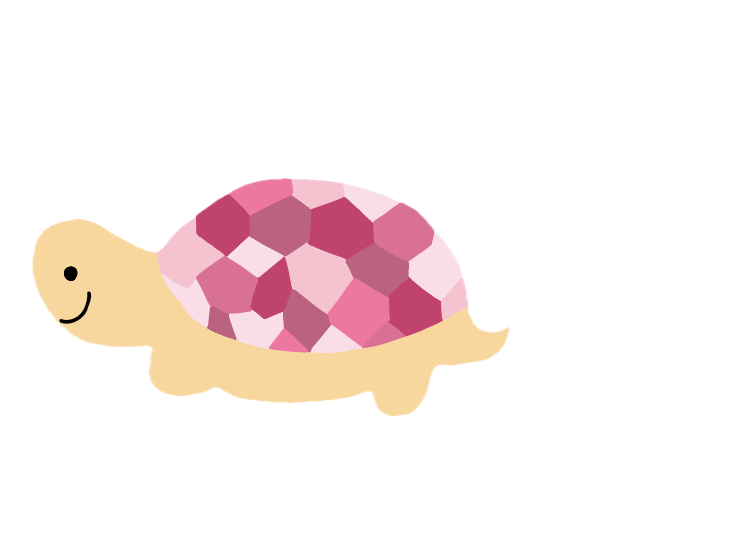
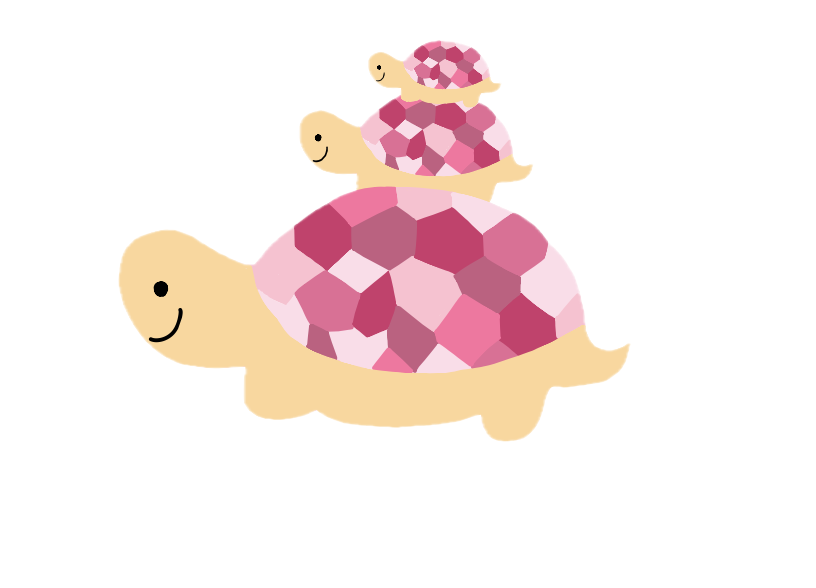
mini hipos con nombre

Changed region(s): [[0.0305, 0.062, 0.7931, 0.7755]]

diff --git a/hipo.py b/hipo.py
@@ -1,7 +1,8 @@
 import pygame
 import sys
 import random
-from Classes import Hipo, Tortuga, Bat
+from Classes import Hipo, Tortuga, Bat, Huevo
+from Game_over import draw_game_over, choose_mini_hippos
 
 pygame.init()
 
@@ -14,17 +15,22 @@ game_font = pygame.font.Font("Assets/PressStart2P-Regular.ttf", 24)
 game_speed = 3
 player_score = 0
 game_over = False
-obstacle_cooldown = 5000
 ground = pygame.image.load("Assets/Pasto.png").convert_alpha()
 ground = pygame.transform.scale(ground, (1700, 90))
 ground_x = 0
+eggs_collected = 0
+
+egg_icon = pygame.image.load("Assets/Huevo_1a.png").convert_alpha()
+egg_icon = pygame.transform.scale(egg_icon, (130, 90))
 
 # Personaje y grupos de obstáculos
 hipo = Hipo(110, 365)
 tortugas = pygame.sprite.Group()
 bats = pygame.sprite.Group()
+huevos = pygame.sprite.Group()
 last_spawn_time = pygame.time.get_ticks()
 spawn_cooldown = 1800
+next_egg_spawn = pygame.time.get_ticks() + random.randint(5000, 9000)
 
 #Chequear colisiones
 def check_collisions():
@@ -38,6 +44,16 @@ def check_collisions():
         if hipo_hitbox.colliderect(bat_hitbox):
             return True
     return False
+
+# Cargar mini Hippos
+mini_hippos = []
+for i in range(1, 25):
+    image = pygame.image.load(f"Assets/minis/mini_{i}.png").convert_alpha()
+    image = pygame.transform.scale(image, (80, 60))
+    mini_hippos.append(image)
+mini_names = ["Sylvia", "Mora", "Bigotes", "Cunky", "Platón", "Gambito", "Roberto", "Oscar", "Chicho", "Focaccia", "Carlos", "Soya", 
+              "Ángel", "Abed", "Hummus", "Pelusa", "Espresso", "Flan", "Coco", "Fuji", "Alvi", "Penco", "Samurai", "Arya"]
+selected_minis = []
 
 while True:
     for event in pygame.event.get():
@@ -56,18 +72,26 @@ while True:
             if event.key == pygame.K_DOWN:
                 hipo.set_ducking(False)
 
+    if game_over:
+        draw_game_over(screen, game_font, player_score, selected_minis)
+        pygame.display.flip()
+        clock.tick(60)
+        continue
+
     current_time = pygame.time.get_ticks()
 
     if current_time - last_spawn_time >= spawn_cooldown:
-
         # Elegir aleatoriamente el tipo de obstáculo
-        if random.choice(["tortuga", "bat"]) == "tortuga":
+        if random.choice(["tortuga", "tortuga", "bat"]) == "tortuga":
             tortugas.add(Tortuga(1330, 397))
         else:
             bats.add(Bat())
 
         last_spawn_time = current_time
-        spawn_cooldown = random.randint(1800, 2800)
+
+    if current_time >= next_egg_spawn:
+        huevos.add(Huevo(1330, 397))
+        next_egg_spawn = current_time + random.randint(6000, 9000)
 
     # Mover el pasto
     ground_x -= game_speed
@@ -78,52 +102,38 @@ while True:
     screen.blit(ground, (ground_x, 390))
     screen.blit(ground, (ground_x + 1700, 390))
 
+
     # Actualizar y dibujar obstáculos
-    tortugas.update()
-    bats.update()
+    tortugas.update(game_speed)
+    bats.update(game_speed)
+    huevos.update(game_speed)
+
+    collected_eggs = pygame.sprite.spritecollide(hipo, huevos, dokill=True)
+    for huevo in collected_eggs:
+        eggs_collected += 1
 
     tortugas.draw(screen)
     bats.draw(screen)
+    huevos.draw(screen)
 
     # Actualizar y dibujar a Hipo
     hipo.update()
     hipo.draw(screen)
 
-    ##### TEMPORAL: DIBUJAR RECTÁNGULOS DE COLISIÓN #####
-    # Rectángulo de Hipo en rojo
-    hipo_hitbox = hipo.rect.inflate(-70, -100)
-    pygame.draw.rect(screen, (255, 0, 0), hipo_hitbox, 2)
-    for tortuga in tortugas:
-        tortuga_hitbox = tortuga.rect.inflate(-50, -20)
-        pygame.draw.rect(screen, (0, 0, 255), tortuga_hitbox, 2)
-    # Rectángulos de los murciélagos en verde
-    for bat in bats:
-        bat_hitbox = bat.rect.inflate(-30, -20)
-        pygame.draw.rect(screen, (0, 255, 0), bat_hitbox, 2)
-    ####################################################
-
     if check_collisions():
         game_over = True
-        
-    if game_over:
-        text = game_font.render("GAME OVER", True, (0, 0, 0))
-        text_rect = text.get_rect(center=(640, 300))
-
-        screen.fill((208, 245, 244))
-        screen.blit(text, text_rect)
-        final_score_text = game_font.render(f"Final Score: {int(player_score)}", True, (0, 0, 0))
-        final_score_rect = final_score_text.get_rect(center=(640, 350))
-        screen.blit(final_score_text, final_score_rect)
-
-        pygame.display.flip()
-        clock.tick(60)
-        continue
+        selected_minis = choose_mini_hippos(mini_hippos, mini_names, eggs_collected)
+        draw_game_over(screen, game_font, player_score, selected_minis)
 
     else:
-        player_score += 0.1
+        player_score += 0.1 + len(collected_eggs) * 10
         score_text = game_font.render(f"Score: {int(player_score)}", True, (0, 0, 0))
-        screen.blit(score_text, (10, 10))   
+        screen.blit(score_text, (10, 10))  
+        screen.blit(egg_icon, (0, 20)) 
+        eggs_text = game_font.render(f" : {eggs_collected}", True, (0, 0, 0))
+        screen.blit(eggs_text, (89, 50))
         game_speed += 0.0025
+        spawn_cooldown = max(800, random.randint(1500, 3000) - int(player_score * 2))
 
 
     pygame.display.flip()

diff --git a/Classes.py b/Classes.py
@@ -96,7 +96,7 @@ class Tortuga(pygame.sprite.Sprite):
         super().__init__()
         self.sprites = []
 
-        for i in range(1, 5):
+        for i in range(1, 7):
             image = pygame.image.load(f"Assets/Tortuga_{i}.png").convert_alpha()
             image = pygame.transform.scale(image, (150, 90))
             self.sprites.append(image)
@@ -104,9 +104,9 @@ class Tortuga(pygame.sprite.Sprite):
         # Elegir una variante aleatoria
         self.image = random.choice(self.sprites)
         self.rect = self.image.get_rect(center=(x, y))
-        self.speed = 5
 
-    def update(self):
+    def update(self, game_speed):
+        self.speed = 2 + game_speed 
         # Mover la tortuga hacia la izquierda
         self.rect.x -= self.speed
         # Eliminarla cuando salga de la pantalla
@@ -127,15 +127,15 @@ class Bat(pygame.sprite.Sprite):
 
         self.current_image = 0
         self.animation_speed = 0.1
-        self.speed = 6
+        self.speed = 3
 
         y = random.choice([310, 211])
         self.image = self.sprites[0]
         self.rect = self.image.get_rect(center=(1300, y))
 
-    def update(self):
+    def update(self, game_speed):
         # Mover y animar el murciélago
-        self.rect.x -= self.speed
+        self.rect.x -= self.speed + game_speed
         self.animate()
         # Eliminarlo al salir de la pantalla
         if self.rect.right < 0:
@@ -147,3 +147,36 @@ class Bat(pygame.sprite.Sprite):
             self.current_image = 0
         self.image = self.sprites[int(self.current_image)]
 
+
+
+class Huevo(pygame.sprite.Sprite):
+    def __init__(self, x, y):
+        super().__init__()
+        # Elegir aleatoriamente uno de los dos colores
+        color = random.choice([1, 2])
+        self.sprites = []
+        for letra in ["a", "b"]:
+            filename = f"Assets/Huevo_{color}{letra}.png"
+            image = pygame.image.load(filename).convert_alpha()
+            image = pygame.transform.scale(image, (150, 90))
+            self.sprites.append(image)
+
+        self.current_image = 0
+        self.animation_speed = 0.1
+        self.speed = 3
+        self.image = self.sprites[0]
+        self.rect = self.image.get_rect(center=(x, y))
+
+    def update(self, game_speed):
+        self.rect.x -= game_speed
+        # Animar el huevo
+        self.animate()
+        # Eliminarlo cuando salga de la pantalla
+        if self.rect.right < 0:
+            self.kill()
+
+    def animate(self):
+        self.current_image += self.animation_speed
+        if self.current_image >= len(self.sprites):
+            self.current_image = 0
+        self.image = self.sprites[int(self.current_image)]

diff --git a/Game_over.py b/Game_over.py
@@ -1,0 +1,43 @@
+import pygame
+import random
+
+def choose_mini_hippos(mini_hippos, mini_names, eggs_collected):
+    minis_with_names = list(zip(mini_hippos, mini_names))
+    random.shuffle(minis_with_names)
+    selected = []
+    # Primero, elegir hasta 24 minis sin repetir
+    selected.extend(minis_with_names[:eggs_collected])
+    # Si hay más de 24 huevos, repetir colores aleatoriamente
+    while len(selected) < eggs_collected:
+        selected.append(random.choice(minis_with_names))
+    return selected
+
+def draw_game_over(screen, game_font, player_score, selected_minis):
+    screen.fill((208, 245, 244))
+    text = game_font.render("GAME OVER", True, (0, 0, 0))
+    text_rect = text.get_rect(center=(640, 250))
+    screen.blit(text, text_rect)
+
+    # Puntaje final
+    final_score_text = game_font.render(f"Final Score: {int(player_score)}", True, (0, 0, 0))
+    final_score_rect = final_score_text.get_rect(center=(640, 300))
+    screen.blit(final_score_text, final_score_rect)
+
+    # Dibujar un mini Hipo por cada huevo recolectado
+    spacing = 90
+    max_per_row = 10
+    total = len(selected_minis)
+    name_font = pygame.font.Font("Assets/PressStart2P-Regular.ttf", 10)
+
+    for i, (mini, name) in enumerate(selected_minis):
+        row = i // max_per_row
+        col = i % max_per_row
+        items_in_row = min(max_per_row, total - row * max_per_row)
+        start_x = 640 - (items_in_row - 1) * spacing / 2
+        x = start_x + col * spacing
+        y = 420 + row * 100
+        screen.blit(mini, mini.get_rect(center=(x, y)))
+        name_text = name_font.render(name, True, (0, 0, 0))
+        name_rect = name_text.get_rect(center=(x, y + 43))
+        screen.blit(name_text, name_rect)
+
